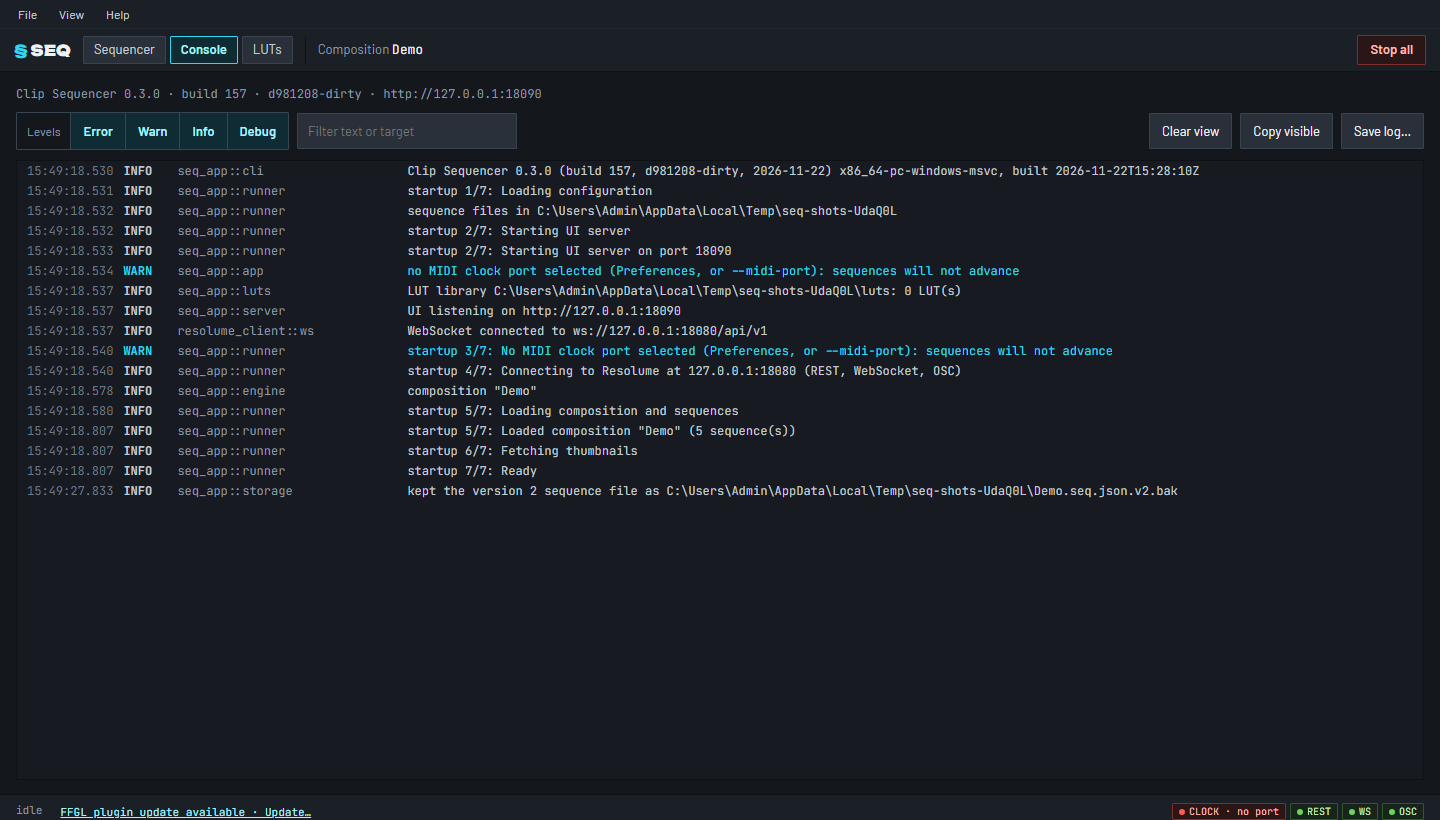
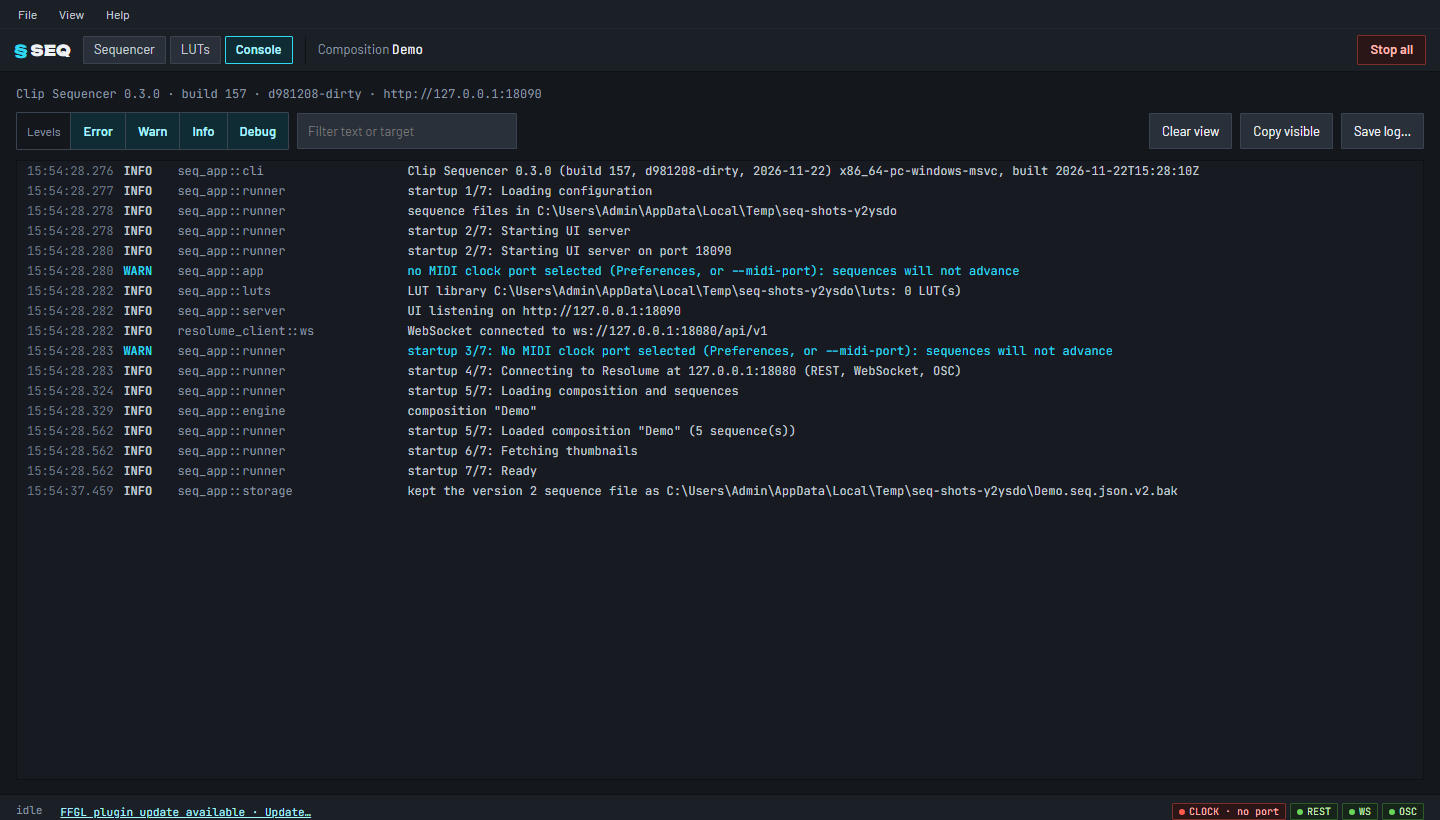
UI: resizable side panels in the Sequencer tab; tabs Sequencer, LUTs, Console
- Drag handles between the sequence list, the editor and the clip browser
  (180-480 px and 240-560 px; double-click resets, arrow keys move them
  when focused). Widths are remembered per browser/window.
- Tab order Sequencer, LUTs, Console; shortcuts follow it: Ctrl+2 LUTs,
  Ctrl+3 Console.

diff --git a/web/src/App.svelte b/web/src/App.svelte
@@ -15,6 +15,30 @@
   import ShortcutsDialog from './components/ShortcutsDialog.svelte';
   import PluginDialog from './components/PluginDialog.svelte';
   import LutTab from './components/LutTab.svelte';
+  import Splitter from './components/Splitter.svelte';
+
+  // Panel widths of the Sequencer tab (drag the handles; remembered in this browser / window).
+  const PANELS = { left: { min: 180, max: 480, initial: 260 }, right: { min: 240, max: 560, initial: 320 } };
+  const PANEL_KEY = 'seq.panelWidths';
+  function loadWidths(): { left: number; right: number } {
+    try {
+      const v = JSON.parse(localStorage.getItem(PANEL_KEY) ?? '{}');
+      const pick = (x: unknown, p: { min: number; max: number; initial: number }) =>
+        typeof x === 'number' && x >= p.min && x <= p.max ? x : p.initial;
+      return { left: pick(v.left, PANELS.left), right: pick(v.right, PANELS.right) };
+    } catch {
+      return { left: PANELS.left.initial, right: PANELS.right.initial };
+    }
+  }
+  let widths = $state(loadWidths());
+  $effect(() => {
+    const v = JSON.stringify(widths);
+    try {
+      localStorage.setItem(PANEL_KEY, v);
+    } catch {
+      /* private mode: not remembered */
+    }
+  });
 
   // Global shortcuts (SPEC §9.3). Inputs keep their own keys.
   function onKey(e: KeyboardEvent) {
@@ -30,7 +54,7 @@
     }
     if ((e.ctrlKey || e.metaKey) && !e.altKey && (e.key === '1' || e.key === '2' || e.key === '3')) {
       e.preventDefault();
-      app.setTab(e.key === '1' ? 'sequencer' : e.key === '2' ? 'console' : 'luts');
+      app.setTab(e.key === '1' ? 'sequencer' : e.key === '2' ? 'luts' : 'console');
       return;
     }
     if ((e.ctrlKey || e.metaKey) && !e.altKey && e.key === ',') {
@@ -88,9 +112,11 @@
   {:else if app.tab === 'luts'}
     <LutTab />
   {:else}
-    <div class="body">
+    <div class="body seq-body" style:--left-w="{widths.left}px" style:--right-w="{widths.right}px">
       <SequenceList />
+      <Splitter bind:width={widths.left} side="left" label="Resize the sequence list" {...PANELS.left} />
       <Editor />
+      <Splitter bind:width={widths.right} side="right" label="Resize the clip browser" {...PANELS.right} />
       <SidePanel />
     </div>
   {/if}

diff --git a/web/src/components/Splitter.svelte b/web/src/components/Splitter.svelte
@@ -1,0 +1,50 @@
+<script lang="ts">
+  // A vertical drag handle that resizes the panel next to it (Sequencer tab: sequence list, clip browser).
+  // `side`: which panel it resizes, the one on its left or on its right. Double-click resets the width;
+  // arrow keys move it in 16 px steps when it has focus.
+  let {
+    width = $bindable(),
+    side,
+    min,
+    max,
+    initial,
+    label,
+  }: { width: number; side: 'left' | 'right'; min: number; max: number; initial: number; label: string } = $props();
+
+  let start: { x: number; w: number } | null = null;
+  const clamp = (w: number) => Math.round(Math.min(max, Math.max(min, w)));
+
+  function down(e: PointerEvent) {
+    if (e.button !== 0) return;
+    start = { x: e.clientX, w: width };
+    (e.currentTarget as HTMLElement).setPointerCapture(e.pointerId);
+    e.preventDefault();
+  }
+  function move(e: PointerEvent) {
+    if (!start) return;
+    const dx = e.clientX - start.x;
+    width = clamp(start.w + (side === 'left' ? dx : -dx));
+  }
+  function up() {
+    start = null;
+  }
+  function key(e: KeyboardEvent) {
+    const step = e.key === 'ArrowLeft' ? -16 : e.key === 'ArrowRight' ? 16 : 0;
+    if (!step) return;
+    e.preventDefault();
+    width = clamp(width + (side === 'left' ? step : -step));
+  }
+</script>
+
+<!-- svelte-ignore a11y_no_noninteractive_tabindex, a11y_no_noninteractive_element_interactions -->
+<div class="splitter" role="separator" aria-orientation="vertical" aria-label={label} aria-valuenow={width}
+  aria-valuemin={min} aria-valuemax={max} tabindex="0" title="Drag to resize · double-click resets"
+  onpointerdown={down} onpointermove={move} onpointerup={up} onpointercancel={up}
+  ondblclick={() => (width = initial)} onkeydown={key}></div>
+
+<style>
+  .splitter { flex: 0 0 5px; margin: 0 -2px; position: relative; z-index: 5; cursor: col-resize; touch-action: none; }
+  .splitter::after { content: ""; position: absolute; top: 0; bottom: 0; left: 2px; width: 1px; background: transparent; transition: background .1s; }
+  .splitter:hover::after, .splitter:focus-visible::after { background: var(--accent); width: 2px; left: 1px; }
+  .splitter:focus-visible { outline: none; }
+</style>

diff --git a/web/src/components/TopBar.svelte b/web/src/components/TopBar.svelte
@@ -8,12 +8,12 @@
   <div class="tabs view-tabs" role="tablist" aria-label="View">
     <button class="tab" role="tab" aria-selected={app.tab === 'sequencer'} title="Ctrl+1"
       onclick={() => app.setTab('sequencer')}>Sequencer</button>
-    <button class="tab" role="tab" aria-selected={app.tab === 'console'} title="Ctrl+2"
+    <button class="tab" role="tab" aria-selected={app.tab === 'luts'} title="Colour LUTs for Resolume's LUT effect · Ctrl+2"
+      onclick={() => app.setTab('luts')}>LUTs</button>
+    <button class="tab" role="tab" aria-selected={app.tab === 'console'} title="Ctrl+3"
       onclick={() => app.setTab('console')}>
       Console{#if app.newErrors > 0}<span class="error-badge" aria-label="{app.newErrors} new errors">{app.newErrors}</span>{/if}
     </button>
-    <button class="tab" role="tab" aria-selected={app.tab === 'luts'} title="Colour LUTs for Resolume's LUT effect · Ctrl+3"
-      onclick={() => app.setTab('luts')}>LUTs</button>
   </div>
   <div>
     <span style="color:var(--muted)">Composition</span>

diff --git a/web/src/components/MenuBar.svelte b/web/src/components/MenuBar.svelte
@@ -36,8 +36,8 @@
       label: 'View',
       items: [
         { label: 'Sequencer', hint: 'Ctrl+1', run: () => app.setTab('sequencer') },
-        { label: 'Console', hint: 'Ctrl+2', run: () => app.setTab('console') },
-        { label: 'LUTs', hint: 'Ctrl+3', run: () => app.setTab('luts') },
+        { label: 'LUTs', hint: 'Ctrl+2', run: () => app.setTab('luts') },
+        { label: 'Console', hint: 'Ctrl+3', run: () => app.setTab('console') },
         'sep',
         { label: 'Zoom in', hint: desktop ? 'Ctrl+=' : undefined, run: desktop ? shell('zoom_in') : () => app.zoomUi(0.1) },
         { label: 'Zoom out', hint: desktop ? 'Ctrl+-' : undefined, run: desktop ? shell('zoom_out') : () => app.zoomUi(-0.1) },

diff --git a/web/src/app.css b/web/src/app.css
@@ -124,6 +124,10 @@ button, input, select { font: inherit; }
 .modal .actions { display: flex; justify-content: flex-end; gap: 8px; }
 
 /* ---- additions (not in the mockup), using tokens only ---- */
+/* Sequencer tab: the side panels have the widths set with the drag handles (App.svelte), no wrapping. */
+.seq-body { flex-wrap: nowrap; }
+.seq-body > .seqlist { flex: 0 0 var(--left-w, 260px); max-width: none; min-width: 0; }
+.seq-body > .side { flex: 0 0 var(--right-w, 320px); max-width: none; min-width: 0; }
 /* Compact top bar (2026-11-22): less padding and lower tabs than the mockup. */
 .topbar { gap: 12px; padding: 6px 14px; }
 .topbar .logo { font-size: 15px; }

diff --git a/web/src/lib/app.svelte.ts b/web/src/lib/app.svelte.ts
@@ -7,7 +7,7 @@ import type {
   RuntimeState, SequenceView, Step, StructureState, Uuid, VersionInfo,
 } from './types';
 
-/** Top-level tabs: Ctrl+1 Sequencer, Ctrl+2 Console, Ctrl+3 LUTs. */
+/** Top-level tabs: Ctrl+1 Sequencer, Ctrl+2 LUTs, Ctrl+3 Console. */
 export type MainTab = 'sequencer' | 'console' | 'luts';
 
 export type InfoDialog = 'about' | 'licenses' | 'shortcuts' | 'quit' | 'ffgl';

diff --git a/site/manual/src/interface.md b/site/manual/src/interface.md
@@ -2,6 +2,8 @@
 
 The window has a top bar, the sequence list on the left, the editor in the middle, the clip browser and step
 inspector on the right, and a status bar at the bottom.
+Drag the edge between a side panel and the editor to make the panel wider or narrower; double-click the edge to
+go back to the default width. The app remembers the widths.
 
 ![The whole window](images/overview.png)
 
@@ -9,8 +11,8 @@ inspector on the right, and a status bar at the bottom.
 
 ![Top bar](images/top-bar.png)
 
-- **§ SEQ** and the tabs **Sequencer | Console | LUTs** (Ctrl+1 / Ctrl+2 / Ctrl+3). The Console tab shows the log;
-  a red number on it counts new errors. The LUTs tab edits colour LUTs for Resolume ([Colour LUTs](luts.md)).
+- **§ SEQ** and the tabs **Sequencer | LUTs | Console** (Ctrl+1 / Ctrl+2 / Ctrl+3). The LUTs tab edits colour LUTs
+  for Resolume ([Colour LUTs](luts.md)). The Console tab shows the log; a red number on it counts new errors.
 - **Composition**: the name of the composition open in Resolume. Sequences are saved per composition.
 - **Deck tabs**: one per Resolume deck. The tab you select is the deck shown below; **LIVE** marks the deck
   Resolume is playing. Selecting a tab never switches Resolume ([Working with decks](decks.md)). A dashed tab is a

diff --git a/README.md b/README.md
@@ -144,7 +144,7 @@ folder and logs a warning.
 
 - **Files:** daily log files in `%APPDATA%\clip-sequencer\logs\` (`seq-app-YYYY-MM-DD.log`). They
   are kept for 7 days.
-- **Console tab:** shows the log live (Ctrl+2), with level filters, pause, copy and save. In the
+- **Console tab:** shows the log live (Ctrl+3), with level filters, pause, copy and save. In the
   desktop app, it opens with View → Toggle Console.
 - **Headless:** `seq-app-cli.exe` also prints the log to the console.
 - **More detail:** set `RUST_LOG=debug` to see every OSC message with microsecond timestamps.
@@ -178,7 +178,7 @@ folder and logs a warning.
 - **Edits while running** apply at the next start ("edited · applies at next start").
 - **Push thumbnail to Resolume** sets the sequence's mosaic as its `§` clip's thumbnail.
 - **Stop all** clears every layer the sequencer owns.
-- **LUTs** (Ctrl+3): **+ New** or **Import…**, adjust; add Resolume's **LUT** effect to the composition, a layer or a
+- **LUTs** (Ctrl+2): **+ New** or **Import…**, adjust; add Resolume's **LUT** effect to the composition, a layer or a
   clip and click **Use <LUT>** next to it. LUTs are saved in `%APPDATA%clip-sequencerluts` (`.cube` + `.lut.json`).
 
 Sequences are saved automatically (about 1 s after an edit) to

diff --git a/docs/SPEC.md b/docs/SPEC.md
@@ -383,7 +383,7 @@ Single screen, everything controlled from here (no separate live view).
 
 ### 9.1 Top bar
 - `§ SEQ` logo, composition name.
-- **View tabs:** Sequencer (Ctrl+1), Console (Ctrl+2), LUTs (Ctrl+3, §14).
+- **View tabs:** Sequencer (Ctrl+1), LUTs (Ctrl+2, §14), Console (Ctrl+3).
 - **Deck tabs** (see 7.2): selected tab = what is shown; `LIVE` badge = active deck in Resolume.
 - **Stop all** (always visible).
 
@@ -668,7 +668,7 @@ comments; other keywords are ignored. It becomes the base table, resampled to 33
   the WebSocket. **Rename** points the effects using the old file at the new one, and removes the old files 2 s
   later. **Delete** removes the files; the UI asks first and says how many effects use it.
 
-### 14.4 LUTs tab (Ctrl+3)
+### 14.4 LUTs tab (Ctrl+2)
 
 - Left: the library (name, "used by N LUT effects", "imported"), **+ New** (neutral), **Import…** (several
   `.cube` files; names from the file names, made unique).

diff --git a/docs/PLAN.md b/docs/PLAN.md
@@ -215,7 +215,7 @@ Tasks:
 - [x] `lut-core`: params, curves, bake to 33³, `.cube` read/write (1D/3D, domain), tests.
 - [x] App: library storage, throttled atomic `.cube` writes, WS commands, LUT effect discovery (composition,
       layers, live deck's clips; not layer groups) and "apply to", mock-resolume effect parameters. Tests.
-- [x] Web UI: LUT tab (Ctrl+3), library, controls, curve editor, WebGL2 preview, import/export, "used by",
+- [x] Web UI: LUT tab (Ctrl+2), library, controls, curve editor, WebGL2 preview, import/export, "used by",
       "Use <LUT>". Checked against the mock with Playwright.
 - [x] Docs: SPEC §14, manual page "Colour LUTs" with screenshots, interface, shortcuts, glossary, README,
       changelog, landing page.

diff --git a/CHANGELOG.md b/CHANGELOG.md
@@ -9,7 +9,7 @@ The format follows [Keep a Changelog](https://keepachangelog.com/en/1.1.0/), and
 
 ### Added
 
-- **LUTs tab** (Ctrl+3): a library of colour LUTs with exposure, contrast, saturation, temperature, tint,
+- **LUTs tab** (Ctrl+2): a library of colour LUTs with exposure, contrast, saturation, temperature, tint,
   lift/gamma/gain per channel and RGB curves, a before/after preview on test images or your clips, and `.cube`
   import and export. Resolume's own **LUT** effect applies them: **Use <LUT>** points an effect at a LUT's file,
   and Resolume reloads it on every change.

diff --git a/site/manual/src/luts.md b/site/manual/src/luts.md
@@ -21,7 +21,7 @@ applies the LUTs with its own **LUT** effect, and every change you make shows on
 
 ## Your first LUT
 
-1. Open the **LUTs** tab (or press **Ctrl+3**).
+1. Open the **LUTs** tab (or press **Ctrl+2**).
 2. Click **+ New**. A neutral LUT called *New LUT* appears: it changes nothing yet. Double-click its name to
    rename it, for example to *Stage Warm*.
 3. Move the controls on the right. The preview shows the original left of the line and the LUT right of it; drag
